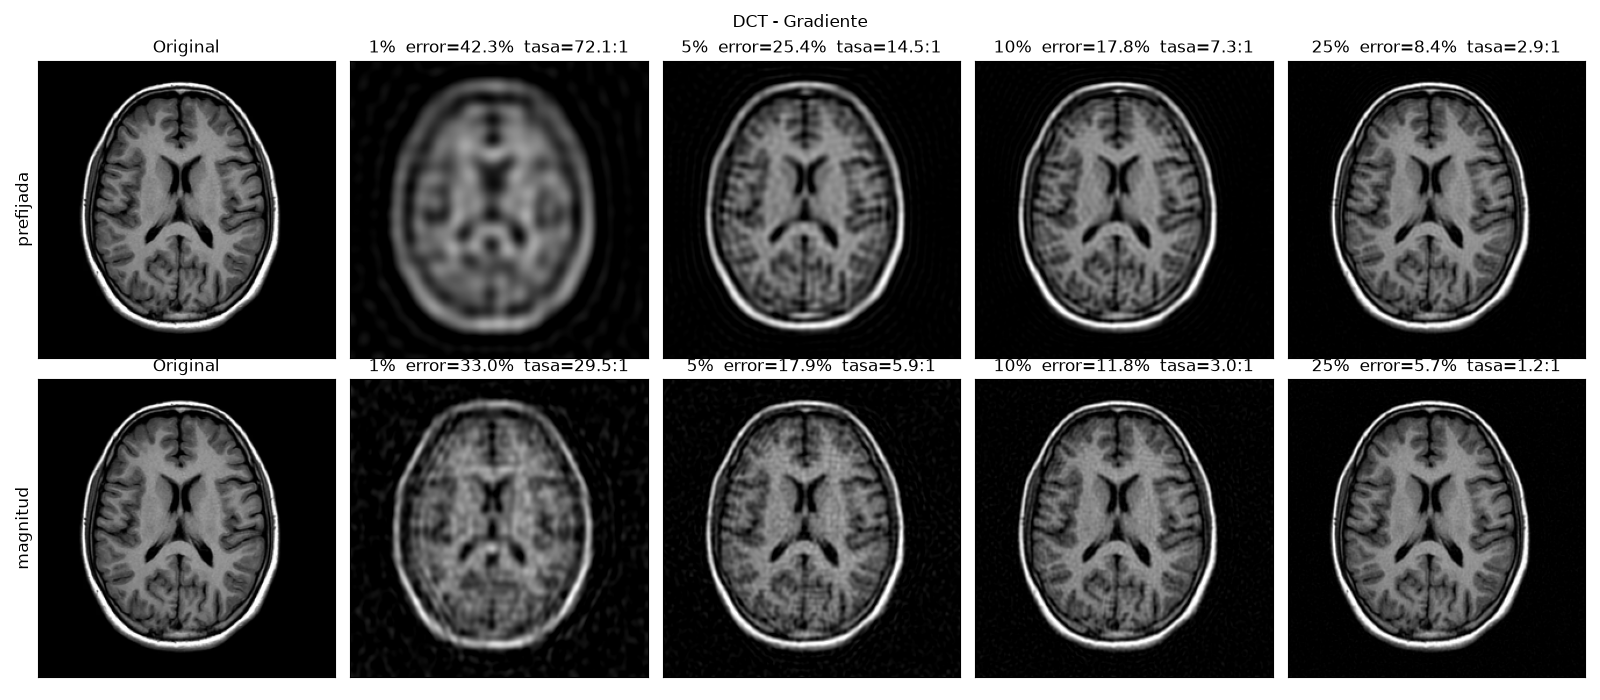
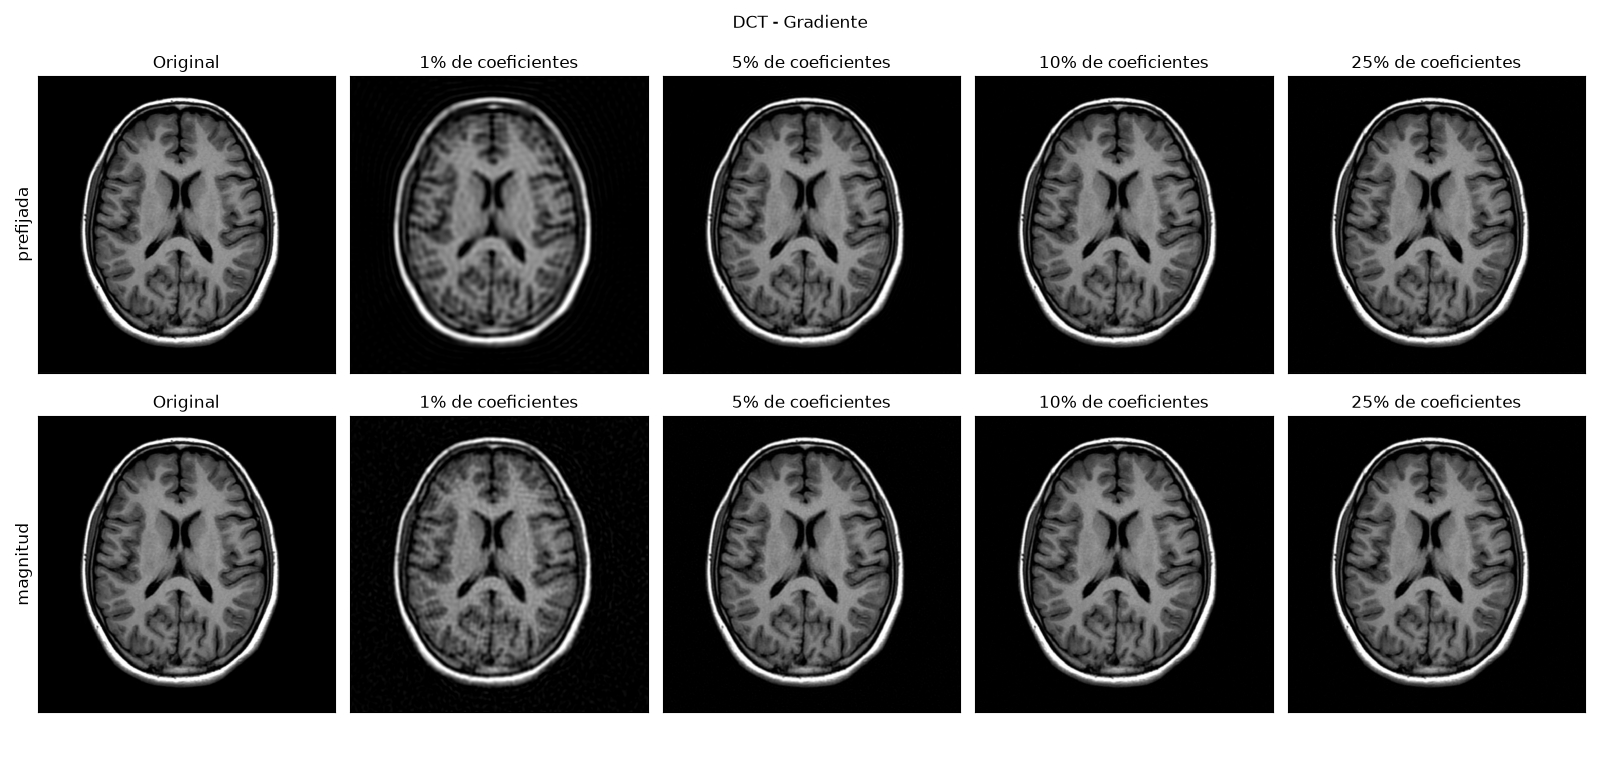
DCT terminado :D

Changed region(s): [[0.0, 0.0, 1.0, 0.99]]

diff --git a/dct.py b/dct.py
@@ -1,14 +1,6 @@
+MOSTRAR_SIN_DELTA = False 
 """
 dct.py  -  Compresión de imágenes con la DCT global (base ortonormal).
-
-Qué hace:
-  1. Conserva 1, 5, 10 y 25 % de los coeficientes y muestra las reconstrucciones.
-  2. Compara dos reglas: soporte PREFIJADO (frecuencias bajas) y selección por MAGNITUD.
-  3. Cuantiza los coeficientes y estima los bits (valores + posiciones + cabecera).
-  4. Reporta el error de recuperación, la tasa de compresión y el tamaño comprimido.
-
-Ejecutar:  python dct.py
-Lee las imágenes de la carpeta  imagenes/  y guarda todo en  resultados/
 """
 import os, glob
 import numpy as np
@@ -18,23 +10,23 @@ import matplotlib.pyplot as plt
 from PIL import Image
 from scipy.fft import dctn, idctn
 
-TAM = 256                       # tamaño de trabajo: 256 x 256
-PORCENTAJES = [1, 5, 10, 25]    # % de coeficientes que se conservan
-DELTA = 0.05                    # paso de cuantización
+PORCENTAJES = [1, 5, 10, 25]    
+DELTA = 0.05                    
+RUTA = "imagenes/texturayperiodicidad.jpeg"   
+GUARDAR_PREFIJADA = True    
+GUARDAR_MAGNITUD = True         
+GUARDAR_CUADRO = True           
+MOSTRAR_SIN_DELTA = False       
 
 
-# ---------- 1. Cargar imagen: gris, cuadrada, 256x256, valores en [0, 1] ----------
+# ----- 1. Cargar imagen: gris, valores en [0, 1] ------
 def cargar_imagen(ruta):
     img = Image.open(ruta).convert("L")
-    w, h = img.size
-    lado = min(w, h)
-    img = img.crop(((w - lado) // 2, (h - lado) // 2, (w + lado) // 2, (h + lado) // 2))
-    img = img.resize((TAM, TAM), Image.LANCZOS)
     return np.asarray(img, dtype=float) / 255.0
 
 
-# ---------- 2. DCT ortonormal ----------
-# Matriz D: solo se usa para VERIFICAR con una matriz pequeña (sección 6, paso 2 del documento)
+# --- 2. DCT ortonormal ------
+# Matriz D:para VERIFICAR 
 def matriz_dct(N):
     """D[k, l] = a_k * cos(pi * k * (2l + 1) / (2N)),  a_0 = sqrt(1/N),  a_k = sqrt(2/N)"""
     k = np.arange(N).reshape(-1, 1)
@@ -44,12 +36,12 @@ def matriz_dct(N):
     return D
 
 
-# Transformada rápida de SciPy (da lo mismo que C = D A D^T, pero más rápido)
+# Transformada rápida de SciPy 
 def transformar(A):  return dctn(A, norm="ortho")     # C = D A D^T
 def reconstruir(C):  return idctn(C, norm="ortho")    # A = D^T C D
 
 
-# ---------- 3. Reglas de selección (devuelven una máscara: True = se conserva) ----------
+# ------- 3. Reglas de selección  ---
 def seleccion_magnitud(C, k):
     """Los k coeficientes de mayor |c|."""
     orden = np.argsort(np.abs(C).ravel())[-k:]     # posiciones de los k más grandes
@@ -68,7 +60,7 @@ def seleccion_prefijada(C, k):
     return M.reshape(C.shape)
 
 
-# ---------- 4. Error de recuperación y bits ----------
+# -4. Error de recuperación--
 def error_recuperacion(A, A_rec):
     """||A - A_rec||_F / ||A||_F"""
     return np.linalg.norm(A - A_rec) / np.linalg.norm(A)
@@ -78,32 +70,33 @@ def bits_estimados(q, M, regla):
     """cabecera (64) + valores (k enteros) + posiciones (solo si la regla es por magnitud)."""
     k = int(M.sum())
     bits_por_valor = int(np.ceil(np.log2(np.abs(q[M]).max() + 1))) + 1   # +1 por el signo
-    bits_posiciones = k * int(np.log2(q.size)) if regla == "magnitud" else 0   # bits de una posición (16 en 256x256)
+    bits_posiciones = k * int(np.ceil(np.log2(q.size))) if regla == "magnitud" else 0   # bits de una posición (redondeado hacia arriba)
     return 64 + k * bits_por_valor + bits_posiciones
 
 
-# ---------- 5. Verificaciones ----------
+# ------ 5. Verificaciones -
 print("Verificaciones DCT")
-D8 = matriz_dct(8)                          # matriz pequeña de 8 x 8
-np.random.seed(0)                           # semilla fija: X sale igual en cada ejecución
+D8 = matriz_dct(8)                          
+np.random.seed(0)                           
 X = np.random.rand(8, 8)
 print("  D D^T = I  (8x8)            ->", np.allclose(D8 @ D8.T, np.eye(8)))
 print("  dctn(X) = D X D^T  (8x8)    ->", np.allclose(transformar(X), D8 @ X @ D8.T))
 
-# ---------- 6. Experimento ----------
+# ------ 6. Experimento ----
 os.makedirs("resultados", exist_ok=True)
-EXTENSIONES = (".png", ".jpg", ".jpeg", ".webp", ".bmp", ".tif", ".tiff")
-rutas = sorted(r for r in glob.glob("imagenes/*") if r.lower().endswith(EXTENSIONES))
+rutas = [RUTA]                  # solo la imagen elegida
 
 for ruta in rutas:
     nombre = os.path.splitext(os.path.basename(ruta))[0]
     A = cargar_imagen(ruta)
     C = transformar(A)
     print(f"\nImagen: {nombre}")
-    print(f"  Imagen reescalada: {A.shape[0]} x {A.shape[1]} píxeles = {A.size / 1024:.1f} KB sin comprimir  (8 bits por píxel)")
-    print(f"  {'regla':<10}{'% coef':>7}{'error de recuperación':>24}{'tasa de compresión':>21}{'tamaño comprimido':>20}")
+    print("  Parseval ||A||² = ||C||²  ->", np.isclose(np.sum(A**2), np.sum(C**2)))
+    print(f"  Tamaño real: {A.shape[0]} x {A.shape[1]} píxeles = {A.size / 1024:.1f} KB sin comprimir  (8 bits por píxel)")
+    extra = f"{'error sin Δ':>13}{'MSE sin Δ':>12}{'energía retenida':>18}" if MOSTRAR_SIN_DELTA else ""
+    print(f"  {'regla':<10}{'% coef':>7}{extra}{'MSE':>12}{'error de recuperación':>24}{'tasa de compresión':>21}{'tamaño comprimido':>20}")
 
-    fig, ejes = plt.subplots(2, 5, figsize=(16, 7))
+    fig, ejes = plt.subplots(2, 5, figsize=(16, 6.4 * A.shape[0] / A.shape[1] + 1.2))   # alto según la proporción de la imagen
     for f, (regla, seleccionar) in enumerate([("prefijada", seleccion_prefijada), ("magnitud", seleccion_magnitud)]):
         ejes[f, 0].imshow(A, cmap="gray", vmin=0, vmax=1)
         ejes[f, 0].set_title("Original")
@@ -117,21 +110,32 @@ for ruta in rutas:
             q = np.round(C / DELTA) * M
             A_rec = reconstruir(DELTA * q)                    # imagen recuperada a partir de lo que se guarda
 
+            A_sin = reconstruir(C * M)                               # sin Δ: solo descarte de coeficientes
+            error_sin = error_recuperacion(A, A_sin)
+            mse_sin = np.mean((A - A_sin) ** 2)                      # MSE sin Δ
+            energia = np.sum(C[M] ** 2) / np.sum(C ** 2)             # energía retenida
             error_rel = error_recuperacion(A, A_rec)
+            mse = np.mean((A - A_rec) ** 2)                          # MSE: promedio por píxel de (A - A_rec)^2
             bits = bits_estimados(q, M, regla)
             tasa = A.size * 8 / bits                          # tasa de compresión: bits originales / bits comprimidos
             kb = bits / 8 / 1024                              # tamaño estimado comprimido en KB
 
-            print(f"  {regla:<10}{p:>7}{error_rel:>24.2%}{tasa:>19.1f}:1{kb:>17.1f} KB")
+            extra = f"{error_sin:>13.2%}{mse_sin:>12.6f}{energia:>18.2%}" if MOSTRAR_SIN_DELTA else ""
+            print(f"  {regla:<10}{p:>7}{extra}{mse:>12.6f}{error_rel:>24.2%}{tasa:>19.1f}:1{kb:>17.1f} KB")
+
+            # guardar cada imagen comprimida (tamaño real) en resultados/
+            if (regla == "prefijada" and GUARDAR_PREFIJADA) or (regla == "magnitud" and GUARDAR_MAGNITUD):
+                Image.fromarray(np.uint8(np.round(np.clip(A_rec, 0, 1) * 255))).save(f"resultados/{nombre}_{regla}_{p}.png")
 
             ejes[f, c + 1].imshow(np.clip(A_rec, 0, 1), cmap="gray", vmin=0, vmax=1)   # misma escala
-            ejes[f, c + 1].set_title(f"{p}%  error={error_rel:.1%}  tasa={tasa:.1f}:1")
+            ejes[f, c + 1].set_title(f"{p}% de coeficientes")
 
     for ax in ejes.ravel():
         ax.set_xticks([]); ax.set_yticks([])
     fig.suptitle(f"DCT - {nombre}")
     fig.tight_layout()
-    fig.savefig(f"resultados/dct_{nombre}.png", dpi=100)
+    if GUARDAR_CUADRO:
+        fig.savefig(f"resultados/dct_{nombre}.png", dpi=100)
     plt.close(fig)
 
 if rutas:
